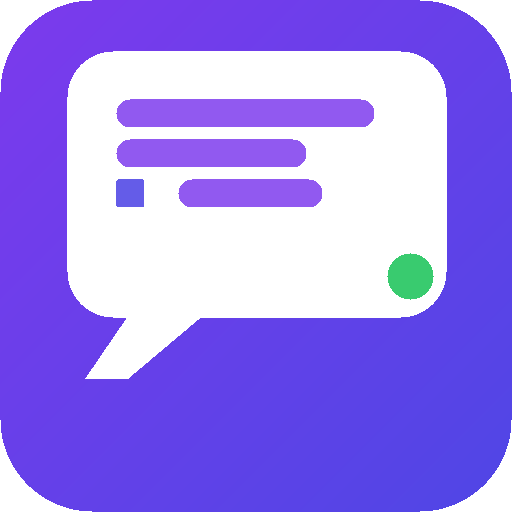
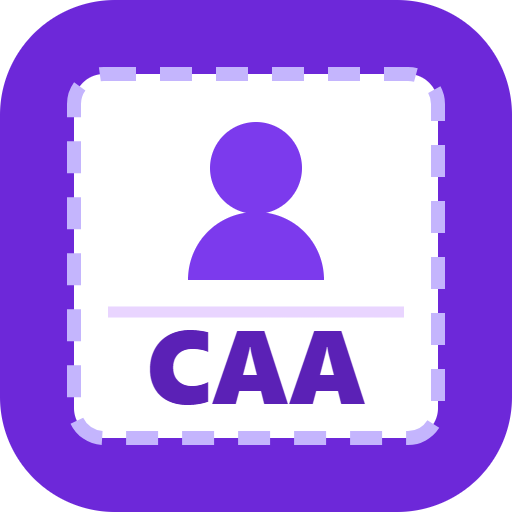
v5.46: icona nuova, una sola per tutta l'app
Una tesserina CAA col bordo tratteggiato di chi la ritaglia: simbolo sopra e
parola sotto, che e' la struttura di una tessera vera e cio' che l'app produce
tutto il giorno. Disegnata da zero, nessun pittogramma ARASAAC (che avrebbe
portato con se' obblighi di attribuzione ovunque compaia l'icona).

Prima erano due segni diversi per la stessa app: l'emoji della testa che parla
dentro, un fumetto fuori. Ora e' la stessa ovunque - header, PWA installata,
linguetta del browser, preferiti - in SVG inline dentro la pagina (nitida a ogni
dimensione, nessuna richiesta di rete in piu') e in PNG per il manifest.

Rimossa la pagina temporanea delle proposte.

Claude-Session: https://claude.ai/code/session_012uRdYLseqLambaziTfd1kT

diff --git a/index.html b/index.html
@@ -31,10 +31,24 @@
 
   <header class="site-header">
     <div class="header-inner">
-      <span class="logo">🗣</span>
+      <!-- Icona dell'app (28/07/2026): la stessa che si vede sul desktop, nella
+           linguetta del browser e sul sito — una tesserina CAA col bordo tratteggiato
+           di chi la ritaglia. Prima qui c'era l'emoji 🗣 e fuori un fumetto: due
+           segni diversi per la stessa app. In SVG inline resta nitida a ogni
+           dimensione e non aggiunge una richiesta di rete. -->
+      <span class="logo">
+        <svg viewBox="0 0 512 512" width="40" height="40" aria-hidden="true" focusable="false">
+          <rect x="74" y="74" width="364" height="364" rx="30" fill="#ffffff"/>
+          <rect x="74" y="74" width="364" height="364" rx="30" fill="none" stroke="#c4b5fd" stroke-width="14" stroke-dasharray="32 24"/>
+          <circle cx="256" cy="168" r="46" fill="#7c3aed"/>
+          <path d="M188 280c0-38 30-68 68-68s68 30 68 68z" fill="#7c3aed"/>
+          <line x1="108" y1="312" x2="404" y2="312" stroke="#e9d5ff" stroke-width="11"/>
+          <text x="256" y="404" font-family="Segoe UI, Arial, Helvetica, sans-serif" font-size="104" font-weight="800" fill="#5b21b6" text-anchor="middle" letter-spacing="-1">CAA</text>
+        </svg>
+      </span>
       <div>
         <h1>CAArtella</h1>
-        <span class="by-line">by <a href="https://edutechlab.it" target="_blank" rel="noopener">EduTechLab</a> di Fabio Rizzotto <span class="version-tag" id="app-version">v5.45</span></span>
+        <span class="by-line">by <a href="https://edutechlab.it" target="_blank" rel="noopener">EduTechLab</a> di Fabio Rizzotto <span class="version-tag" id="app-version">v5.46</span></span>
         <p>Genera fogli A4 con pittogrammi ARASAAC — stampa, ritaglia, incolla sul quaderno</p>
       </div>
       <!-- Campanella avvisi — sostituisce il vecchio messaggio "🔄 Vocabolario

diff --git a/css/style.css b/css/style.css
@@ -30,17 +30,18 @@ body {
 }
 
 .logo {
-  font-size: 2rem;
-  background: rgba(255,255,255,0.18);
-  border-radius: 50%;
+  /* Contiene l'icona vera dell'app (SVG inline, 28/07/2026) al posto della vecchia
+     emoji: niente sfondo tondo semitrasparente, che con un'icona gia' squadrata
+     creava due forme sovrapposte. Resta la leggera ombra per staccarla dal viola. */
   width: 52px;
   height: 52px;
   display: flex;
   align-items: center;
   justify-content: center;
   flex-shrink: 0;
-  filter: drop-shadow(0 0 4px rgba(255,255,255,0.5));
+  filter: drop-shadow(0 2px 6px rgba(0,0,0,0.25));
 }
+.logo svg { display: block; border-radius: 8px; }
 .by-line {
   font-size: 0.78rem;
   opacity: 0.7;

diff --git a/sw.js b/sw.js
@@ -3,7 +3,7 @@
 //  ⚙  Aggiorna CACHE_NAME ad ogni deploy per forzare il refresh
 // ══════════════════════════════════════════════════════════════════
 
-const CACHE_NAME = 'caartella-v5.45';
+const CACHE_NAME = 'caartella-v5.46';
 
 const STATIC_ASSETS = [
   './',
